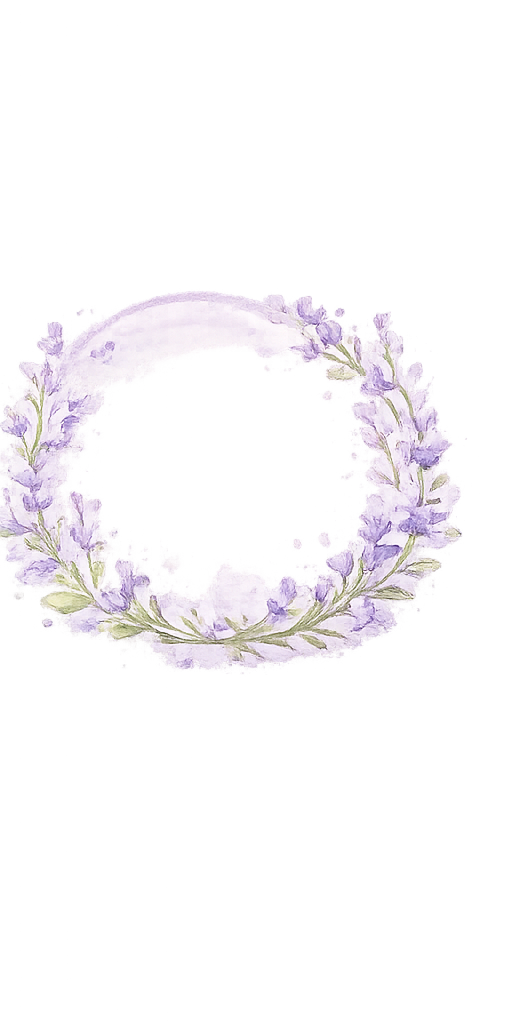
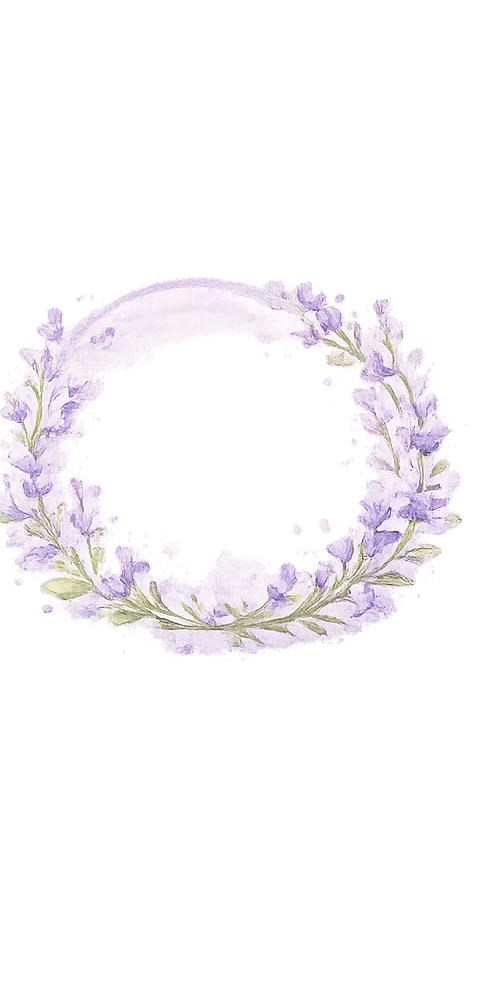
fix: restore paw button, nav gap, font apply, bg robustness, font restart
1. MessageInput: add minWidth:0 to textarea flex wrapper so it shrinks
   properly and stops pushing the paw send button off-screen
2. BottomNav: revert minHeight 110→88, wreath div 110→84, objectFit
   contain→cover; crop transparent margins from all three nav PNGs with
   PIL so there is no gap between the input bar and the visible flowers
3. GlobalSettings handleImportFont: call setFontFamily(id) after upload
   so the new font is immediately applied without a manual click
4. SessionSettings handleBgFile: add MIME-type guard (warn on HEIC),
   canvas-compress images >10MB to ≤1920px/JPEG, full try-catch with
   alert, console.log at every step
5. App.jsx font loading: switch from forEach+async to sequential for-loop
   so all custom FontFaces finish loading from IDB before --app-font is
   re-applied, fixing the restart revert-to-default regression

Claude-Session: https://claude.ai/code/session_014Vj6t15K8Nb7xpmWiGRCi9

Changed region(s): [[0.0, 0.2771, 0.9688, 0.6773], [0.5, 0.3386, 0.5312, 0.3694]]

diff --git a/src/components/SessionSettings.jsx b/src/components/SessionSettings.jsx
@@ -101,10 +101,60 @@ export default function SessionSettings({ theme }) {
   const handleBgFile = async (e) => {
     const file = e.target.files?.[0]
     if (!file) return
-    const blobKey = `bg:${currentSessionId}`
-    await saveBlob(blobKey, file)
-    setSessionChatBg(currentSessionId, { type: 'image', blobKey, opacity: currentSession?.chatBg?.opacity ?? 0.9 })
     e.target.value = ''
+
+    const ALLOWED = ['image/png', 'image/jpeg', 'image/jpg', 'image/webp', 'image/gif', 'image/bmp']
+    if (!ALLOWED.includes(file.type.toLowerCase())) {
+      const ext = file.name.split('.').pop().toLowerCase()
+      if (ext === 'heic' || ext === 'heif') {
+        alert('HEIC/HEIF 格式暂不支持，请先在相册中将图片转换为 JPG 再上传。')
+      } else {
+        alert(`不支持的图片格式：${file.type || ext}`)
+      }
+      return
+    }
+
+    try {
+      console.log(`[BG] 开始处理背景图：${file.name} (${(file.size / 1024 / 1024).toFixed(2)} MB)`)
+      let blob = file
+      const MAX_SIZE = 10 * 1024 * 1024
+      if (file.size > MAX_SIZE) {
+        console.log('[BG] 图片过大，正在压缩…')
+        blob = await new Promise((resolve, reject) => {
+          const img = new window.Image()
+          const url = URL.createObjectURL(file)
+          img.onload = () => {
+            URL.revokeObjectURL(url)
+            let { width, height } = img
+            const MAX_DIM = 1920
+            if (width > MAX_DIM || height > MAX_DIM) {
+              const scale = MAX_DIM / Math.max(width, height)
+              width = Math.round(width * scale)
+              height = Math.round(height * scale)
+            }
+            const canvas = document.createElement('canvas')
+            canvas.width = width
+            canvas.height = height
+            canvas.getContext('2d').drawImage(img, 0, 0, width, height)
+            canvas.toBlob(b => {
+              if (b) { console.log(`[BG] 压缩完成：${(b.size / 1024 / 1024).toFixed(2)} MB`); resolve(b) }
+              else reject(new Error('canvas.toBlob 失败'))
+            }, 'image/jpeg', 0.82)
+          }
+          img.onerror = () => { URL.revokeObjectURL(url); reject(new Error('图片加载失败')) }
+          img.src = url
+        })
+      }
+
+      const blobKey = `bg:${currentSessionId}`
+      await saveBlob(blobKey, blob)
+      console.log('[BG] 已存入 IndexedDB，key:', blobKey)
+      setSessionChatBg(currentSessionId, { type: 'image', blobKey, opacity: currentSession?.chatBg?.opacity ?? 0.9 })
+      console.log('[BG] 背景已更新')
+    } catch (err) {
+      console.error('[BG] 背景图处理失败', err)
+      alert('背景图处理失败：' + err.message)
+    }
   }
 
   useEffect(() => {

diff --git a/src/App.jsx b/src/App.jsx
@@ -64,24 +64,30 @@ export default function App() {
   // Load custom fonts from IndexedDB whenever the list changes
   useEffect(() => {
     if (!customFonts?.length) return
-    customFonts.forEach(async (font) => {
-      if (document.fonts.check(`12px "${font.family}"`)) return
-      try {
-        const blob = await getCustomFont(font.id)
-        if (!blob) return
-        const url = URL.createObjectURL(blob)
-        const face = new FontFace(font.family, `url(${url})`)
-        await face.load()
-        document.fonts.add(face)
-        console.log(`[Font] 已加载: ${font.family}`)
-        // Force the browser to re-evaluate var(--app-font) by removing then re-setting
-        const prev = document.documentElement.style.getPropertyValue('--app-font')
-        document.documentElement.style.removeProperty('--app-font')
-        requestAnimationFrame(() => document.documentElement.style.setProperty('--app-font', prev || `'${font.family}', sans-serif`))
-      } catch (e) {
-        console.warn(`[Font] 加载失败: ${font.family}`, e)
+    const loadAll = async () => {
+      for (const font of customFonts) {
+        if (document.fonts.check(`12px "${font.family}"`)) continue
+        try {
+          const blob = await getCustomFont(font.id)
+          if (!blob) continue
+          const url = URL.createObjectURL(blob)
+          const face = new FontFace(font.family, `url(${url})`)
+          await face.load()
+          document.fonts.add(face)
+          console.log(`[Font] 已加载: ${font.family}`)
+        } catch (e) {
+          console.warn(`[Font] 加载失败: ${font.family}`, e)
+        }
       }
-    })
+      // Re-apply --app-font after all fonts are loaded so the browser picks up
+      // any custom FontFace that was registered after the CSS var was first set
+      const current = document.documentElement.style.getPropertyValue('--app-font')
+      if (current) {
+        document.documentElement.style.removeProperty('--app-font')
+        requestAnimationFrame(() => document.documentElement.style.setProperty('--app-font', current))
+      }
+    }
+    loadAll()
   }, [customFonts])
 
   // Load background image from IndexedDB

diff --git a/src/components/BottomNav.jsx b/src/components/BottomNav.jsx
@@ -9,15 +9,15 @@ export default function BottomNav({ currentView, onChange, theme, bare = false }
   const primaryDark = theme?.primaryDark || '#2196d3'
 
   const containerStyle = bare
-    ? { display: 'flex', alignItems: 'center', justifyContent: 'space-around', paddingTop: 1, paddingBottom: 1, minHeight: 110 }
+    ? { display: 'flex', alignItems: 'center', justifyContent: 'space-around', paddingTop: 4, paddingBottom: 4, minHeight: 88 }
     : {
         display: 'flex', alignItems: 'center', justifyContent: 'space-around',
         background: `linear-gradient(to bottom, ${primary}08, rgba(255,255,255,0.22))`,
         backdropFilter: 'blur(22px)',
         WebkitBackdropFilter: 'blur(22px)',
         borderTop: `1px solid ${primary}14`,
-        paddingTop: 1, paddingBottom: 1,
-        minHeight: 110,
+        paddingTop: 4, paddingBottom: 4,
+        minHeight: 88,
       }
 
   return (
@@ -43,14 +43,14 @@ export default function BottomNav({ currentView, onChange, theme, bare = false }
             }}
           >
             {/* Flower wreath IS the tab frame — fills the tab area */}
-            <div style={{ position: 'relative', width: 110, height: 110 }}>
+            <div style={{ position: 'relative', width: 84, height: 84 }}>
               <img
                 src={tab.img}
                 alt={tab.label}
                 style={{
                   width: '100%',
                   height: '100%',
-                  objectFit: 'contain',
+                  objectFit: 'cover',
                   filter: active
                     ? `drop-shadow(0 0 7px ${primary}) drop-shadow(0 0 16px ${primary}aa) brightness(1.12)`
                     : 'opacity(0.42) saturate(0.5)',

diff --git a/src/components/Chat/MessageInput.jsx b/src/components/Chat/MessageInput.jsx
@@ -118,7 +118,7 @@ const MessageInput = forwardRef(function MessageInput({ onSend, onSendVoice, onS
       )}
 
       <div style={{
-        flex: 1, display: 'flex', alignItems: 'flex-end',
+        flex: 1, minWidth: 0, display: 'flex', alignItems: 'flex-end',
         background: 'rgba(255,255,255,0.5)',
         backdropFilter: 'blur(8px)',
         WebkitBackdropFilter: 'blur(8px)',

diff --git a/src/components/GlobalSettings.jsx b/src/components/GlobalSettings.jsx
@@ -122,6 +122,7 @@ export default function GlobalSettings({ theme }) {
       await fontFace.load()
       document.fonts.add(fontFace)
       addCustomFont({ id, name, family })
+      setFontFamily(id)
     } catch (err) {
       alert('字体加载失败：' + err.message)
     }